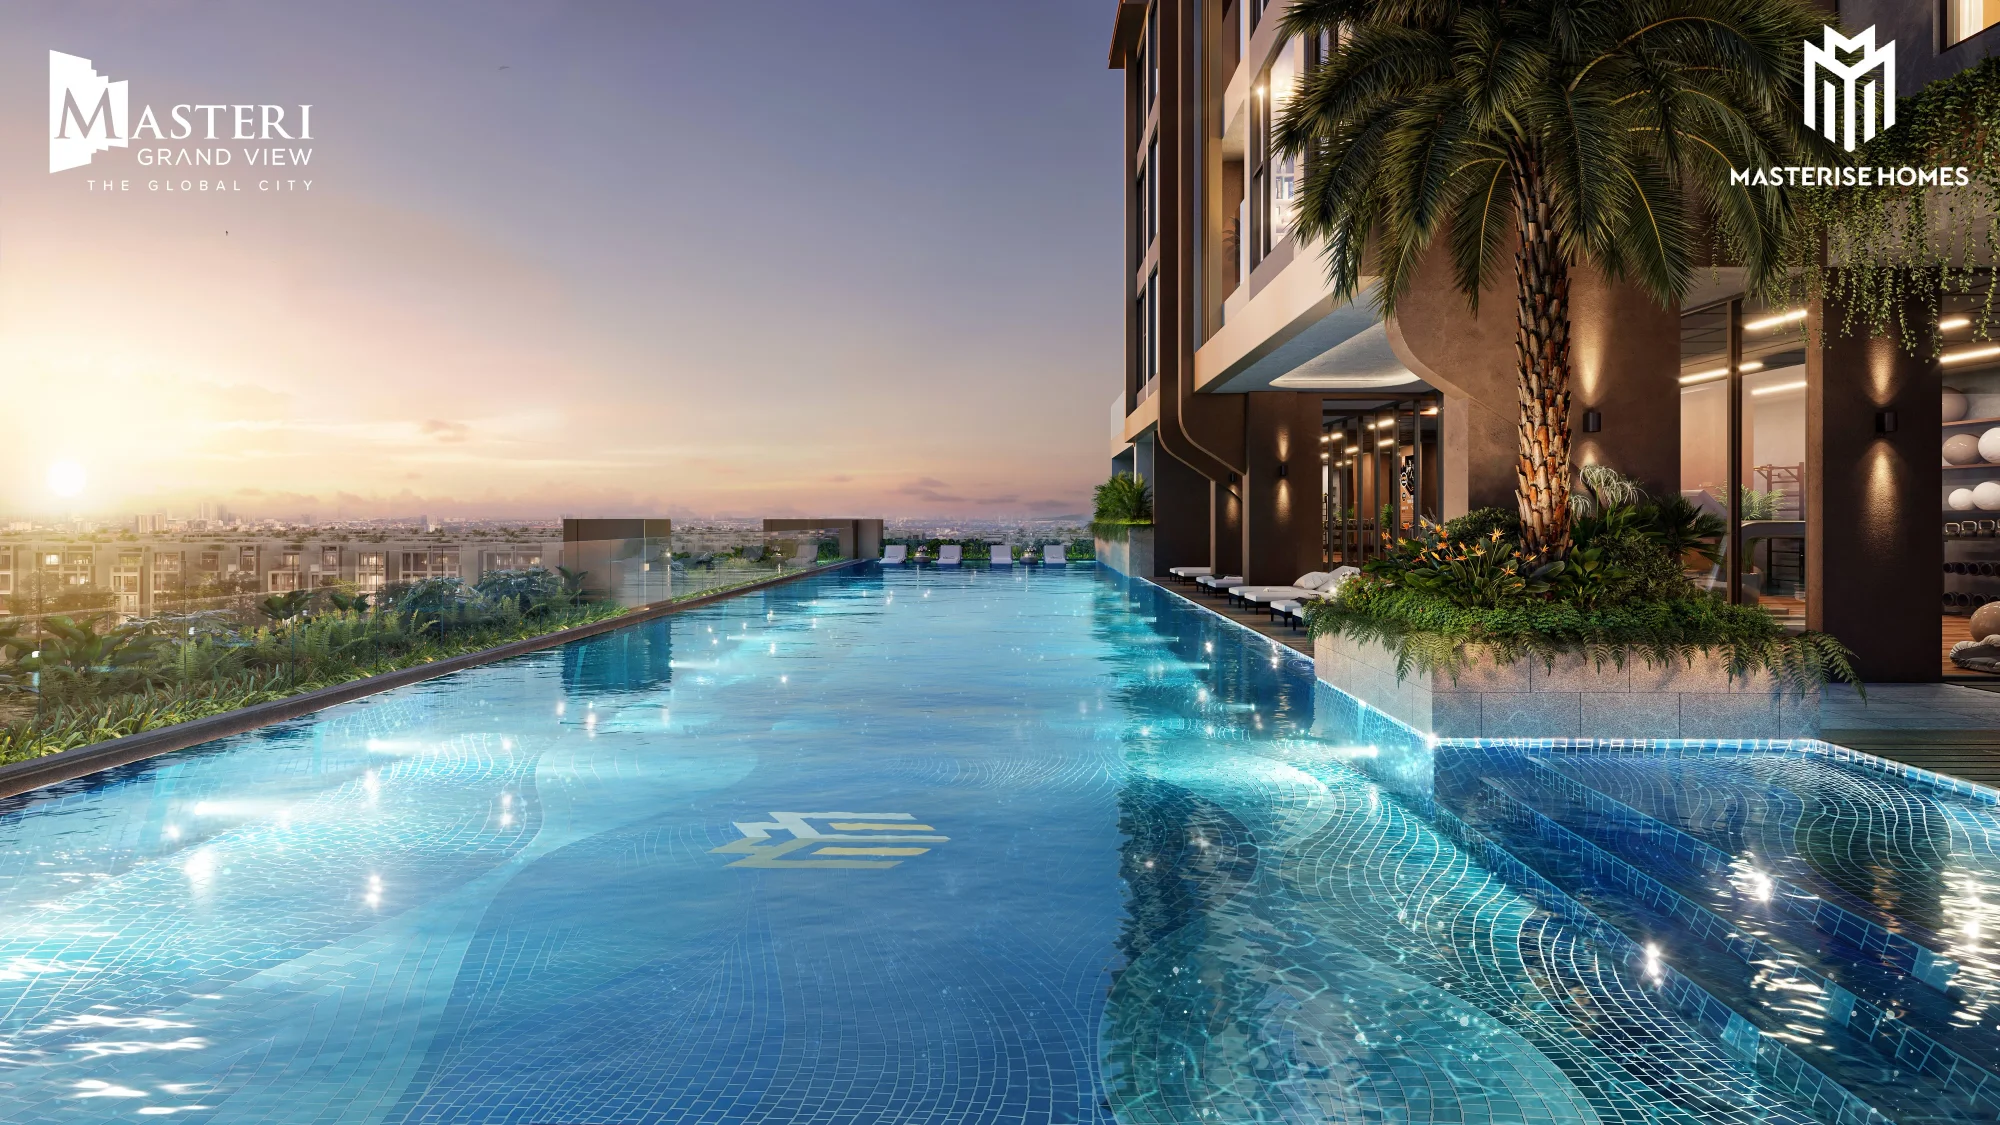
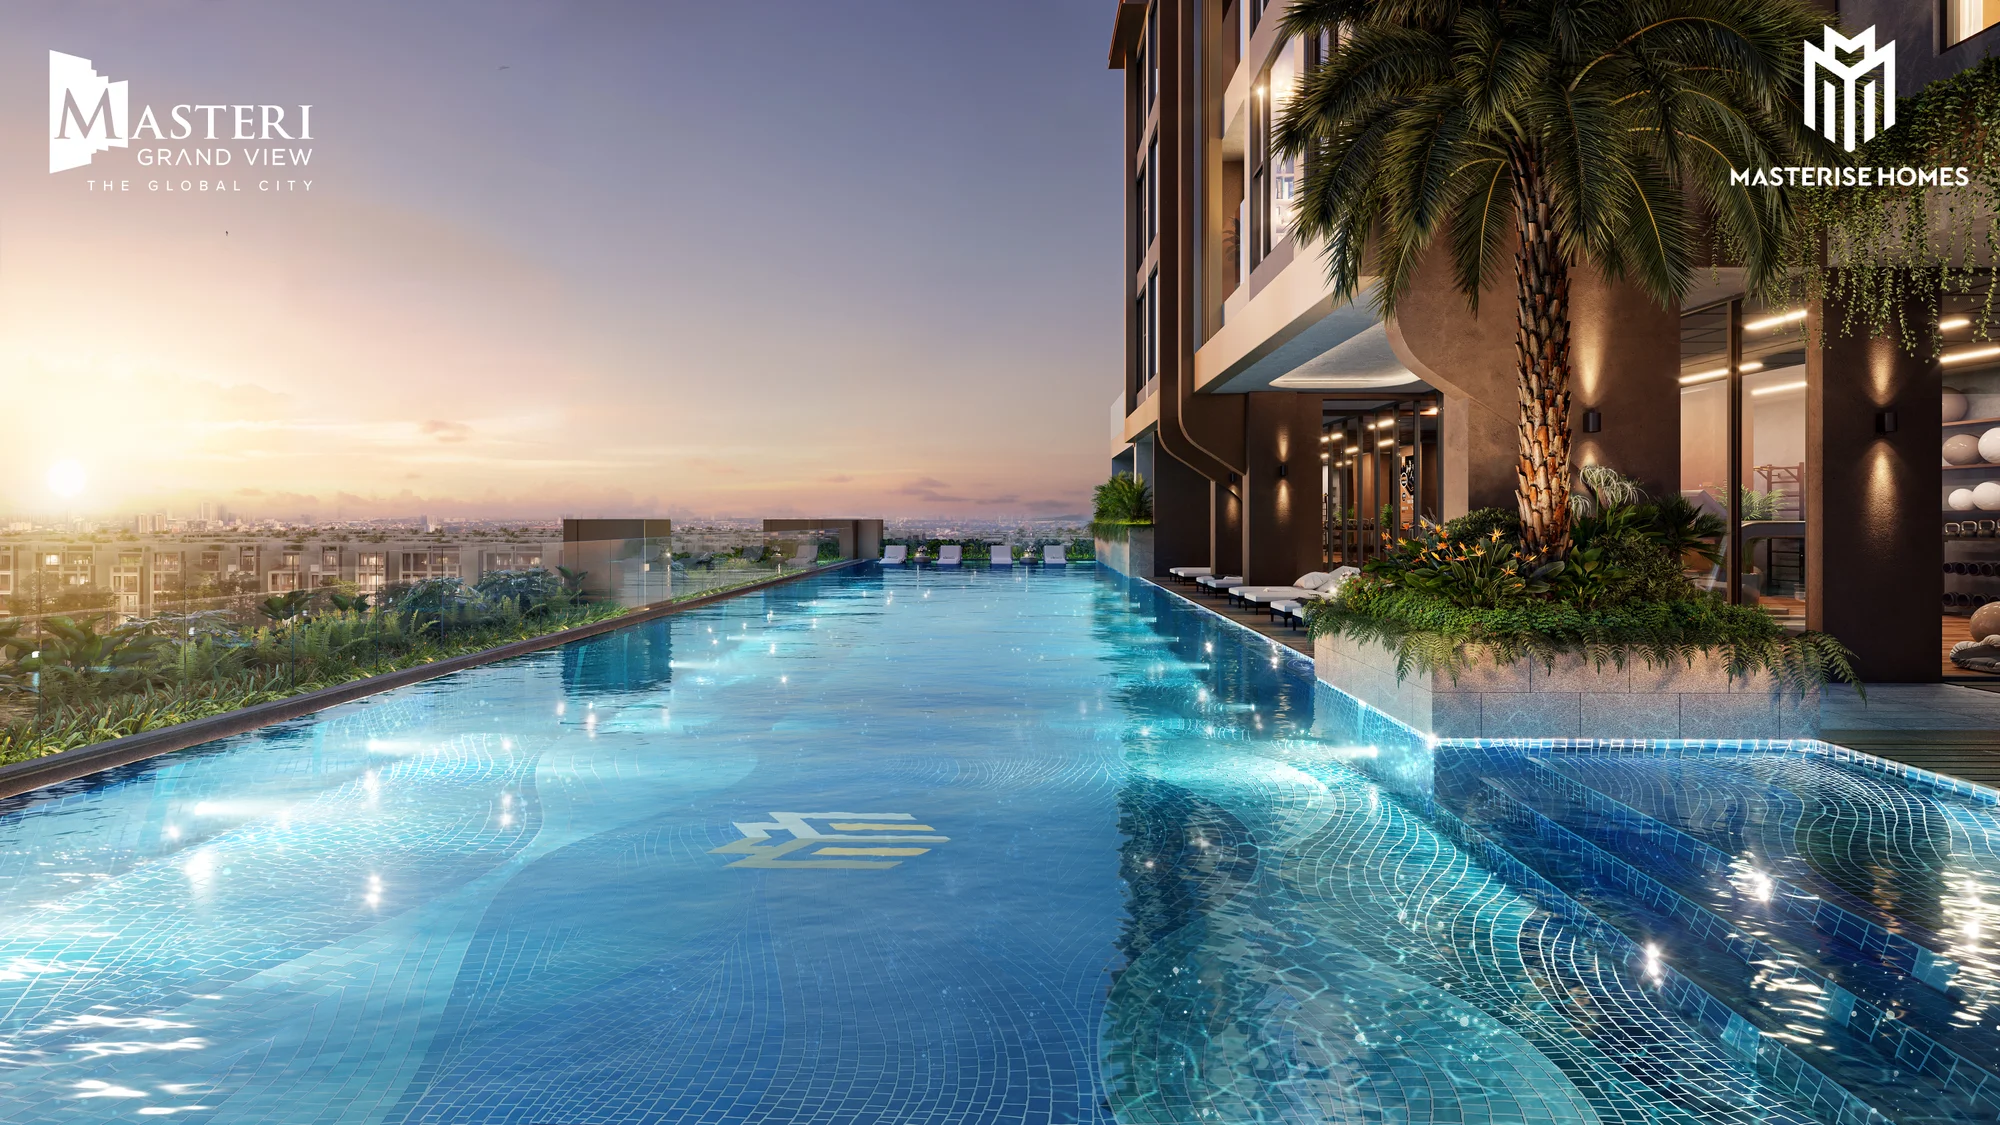
Update Masteri Grand View amenity photos, make gallery frames equal size
Replace tiện ích nội khu images (gym, sảnh đón, khu vui chơi, hồ bơi)
and add object-fit: cover to gallery grid images so frames render at a
consistent size regardless of source aspect ratio.

diff --git a/src/content/cao-tang/masteri-grand-view.md b/src/content/cao-tang/masteri-grand-view.md
@@ -36,14 +36,14 @@ gallery_groups:
   - label: Tiện ích nội khu
     layout: grid-2
     items:
-      - image: ./images/masteri-grand-view/tien-ich-ho-boi.webp
-        caption: Hồ bơi phong cách nghỉ dưỡng
-      - image: ./images/masteri-grand-view/tien-ich-gym-yoga.webp
-        caption: Khu gym & yoga
+      - image: ./images/masteri-grand-view/tien-ich-gym.webp
+        caption: Phòng gym
+      - image: ./images/masteri-grand-view/tien-ich-sanh-don.webp
+        caption: Sảnh đón
       - image: ./images/masteri-grand-view/tien-ich-vui-choi-tre-em.webp
         caption: Khu vui chơi trẻ em
-      - image: ./images/masteri-grand-view/tien-ich-bbq.webp
-        caption: Khu BBQ ngoài trời
+      - image: ./images/masteri-grand-view/tien-ich-ho-boi.webp
+        caption: Hồ bơi vô cực
 price_table:
   - label: 1 phòng ngủ
     price: 5 - 6 tỷ đồng
